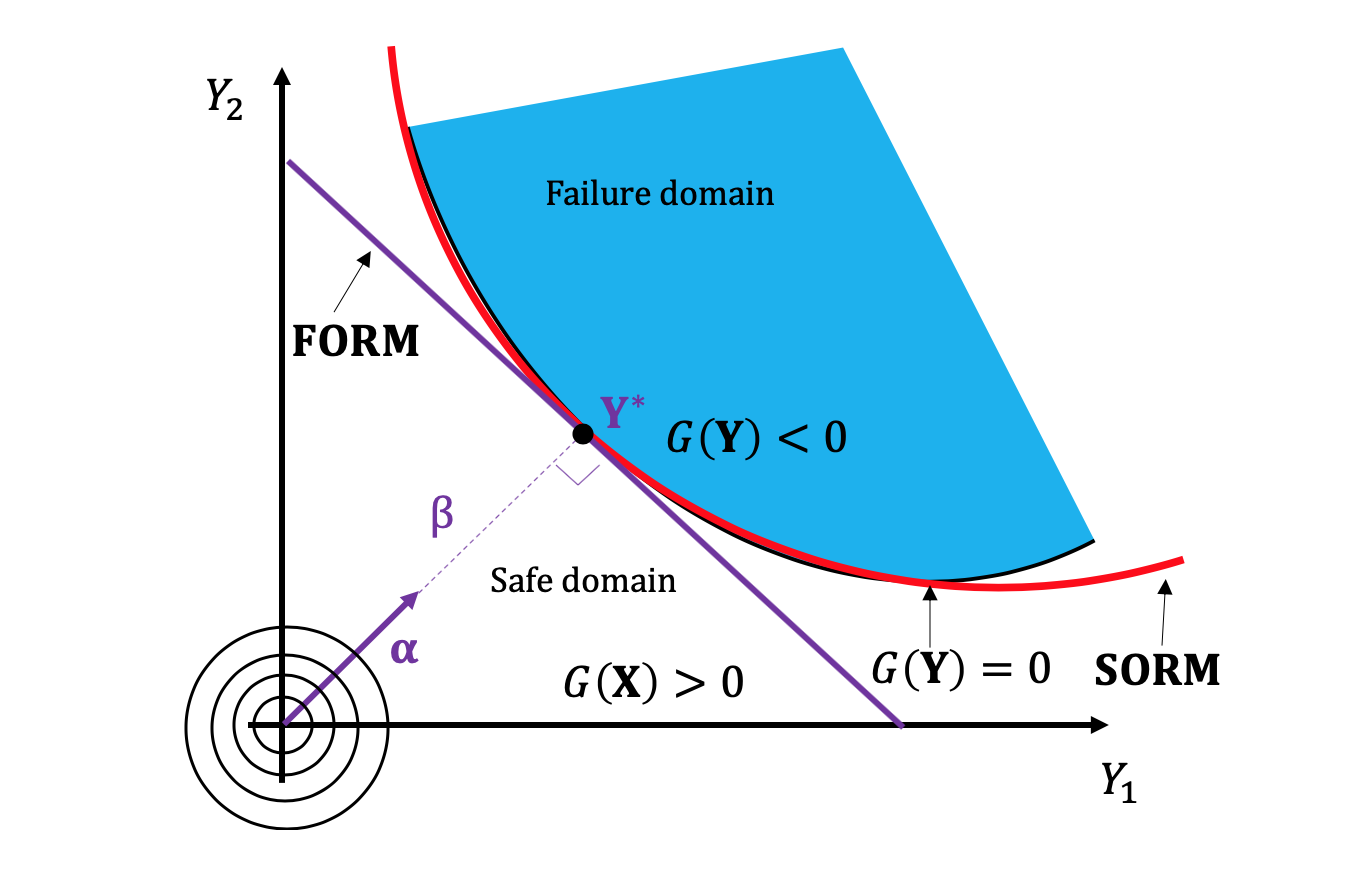
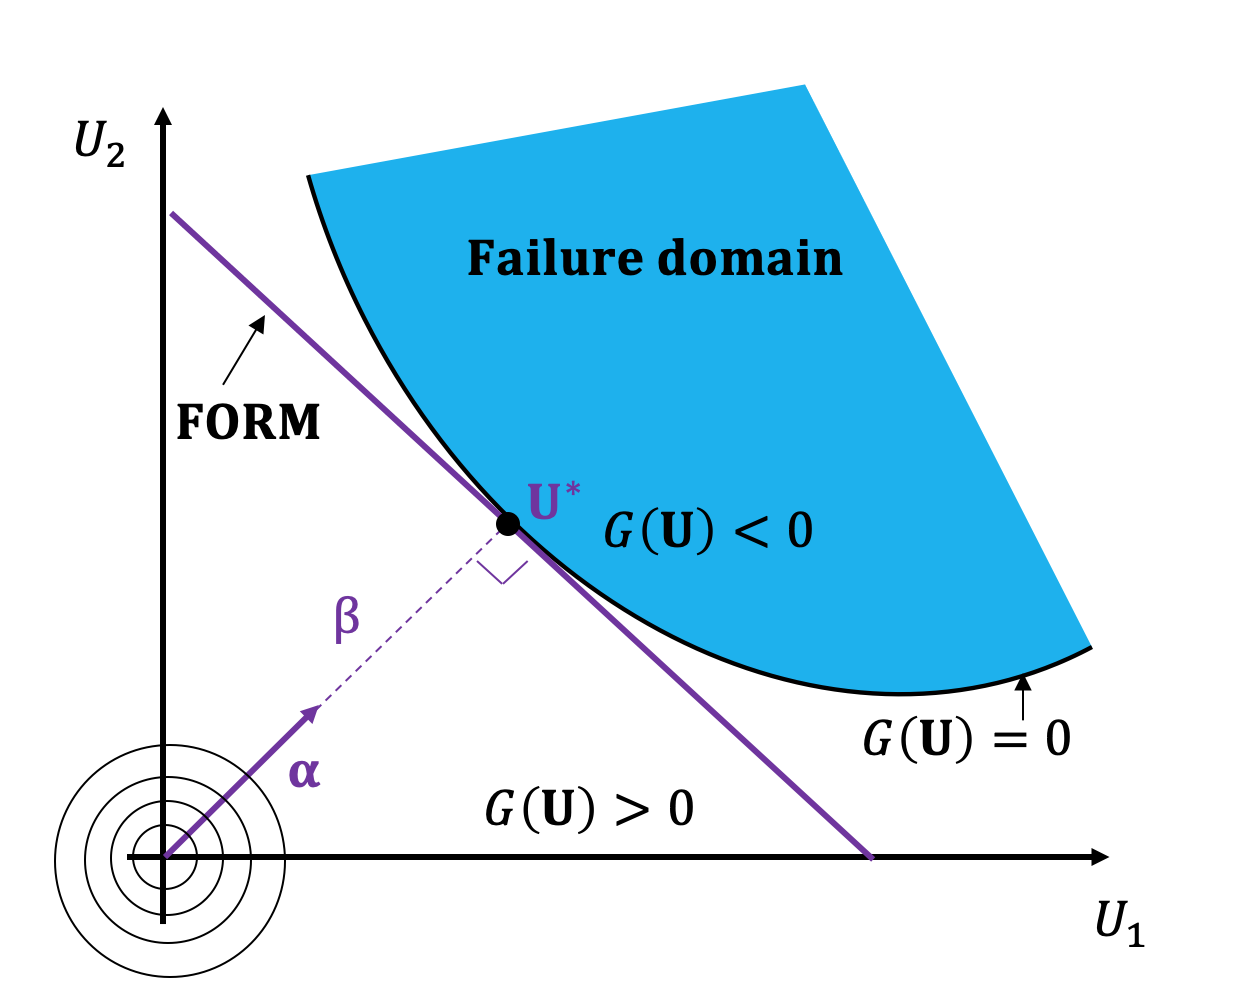
change figure TaylorSeries

diff --git a/src/UQpy/reliability/taylor_series/SORM.py b/src/UQpy/reliability/taylor_series/SORM.py
@@ -4,12 +4,6 @@ from typing import Union, Optional
 import numpy as np
 import scipy.stats as stats
 from beartype import beartype
-
-from UQpy.distributions.baseclass import DistributionContinuous1D
-from UQpy.distributions.collection import JointIndependent
-from UQpy.transformations.Nataf import Nataf
-from UQpy.RunModel import RunModel
-from UQpy.distributions.baseclass import Distribution
 from UQpy.reliability.taylor_series.FORM import FORM
 from UQpy.reliability.taylor_series.baseclass.TaylorSeries import TaylorSeries
 
